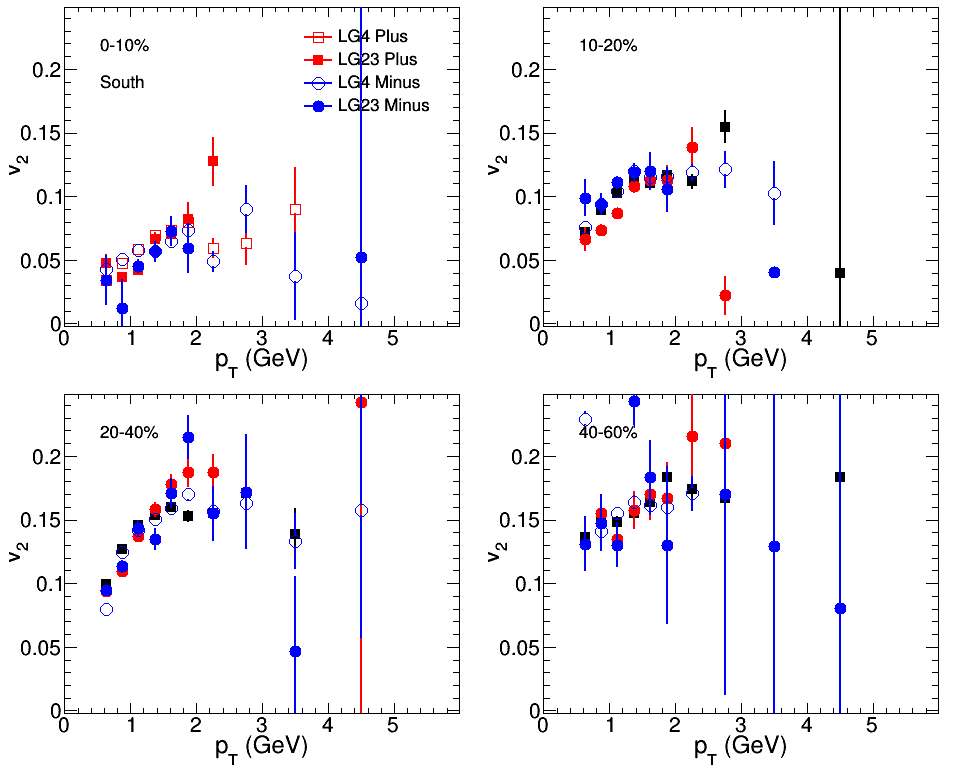
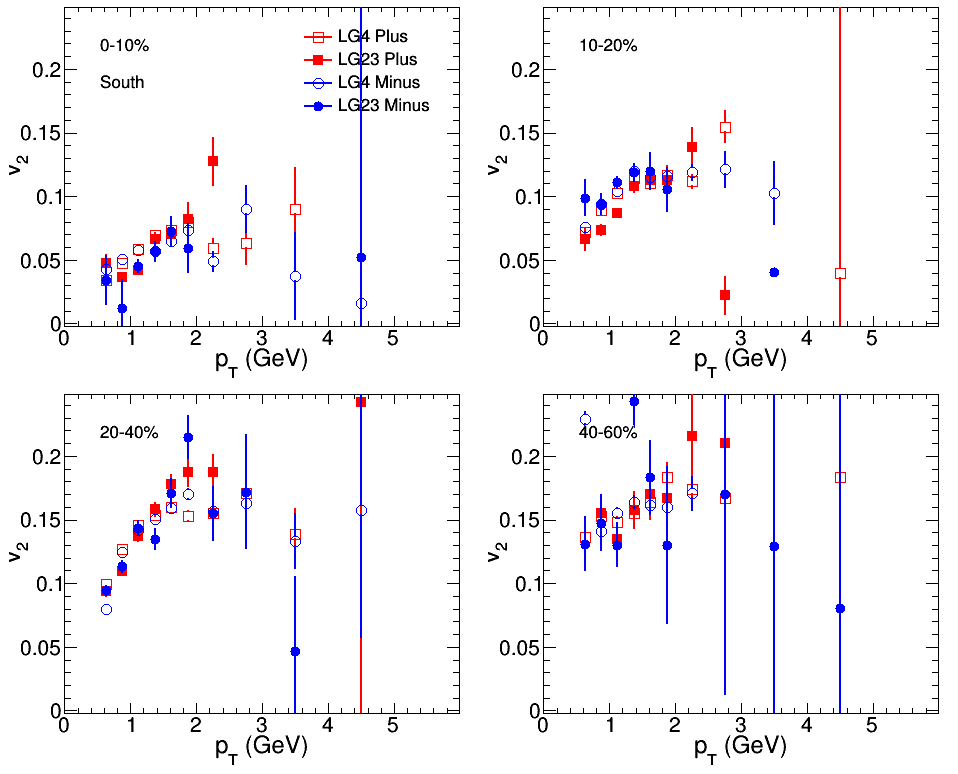
up

diff --git a/branVz/fourPanelFig/fourSetsData/fourPanelFourSetsFig.C b/branVz/fourPanelFig/fourSetsData/fourPanelFourSetsFig.C
@@ -141,7 +141,7 @@ double v2CorrectedLG23MinusError[nCentBin][nPtBin];
   TGraphErrors *graph1Minus = new TGraphErrors(nPtBin, &ptValues[0][0],&v2CorrectedMinus[0][0],0,&v2CorrectedMinusError[0][0]);
   graph1Minus->SetTitle("");
   graph1Minus->SetMarkerStyle(24);
-  graph1Minus->SetMarkerSize(1.4);
+  graph1Minus->SetMarkerSize(1.2);
   graph1Minus->SetMarkerColor(4);
   graph1Minus->SetLineWidth(2);
   graph1Minus->SetLineColor(4);
@@ -149,7 +149,7 @@ double v2CorrectedLG23MinusError[nCentBin][nPtBin];
   TGraphErrors *graph1LG23Minus = new TGraphErrors(nPtBin, &ptValues[0][0],&v2CorrectedLG23Minus[0][0],0,&v2CorrectedLG23MinusError[0][0]);
   graph1LG23Minus->SetTitle("");
   graph1LG23Minus->SetMarkerStyle(20);
-  graph1LG23Minus->SetMarkerSize(1.4);
+  graph1LG23Minus->SetMarkerSize(1.2);
   graph1LG23Minus->SetMarkerColor(4);
   graph1LG23Minus->SetLineWidth(2);
   graph1LG23Minus->SetLineColor(4);
@@ -186,16 +186,16 @@ double v2CorrectedLG23MinusError[nCentBin][nPtBin];
   hist2->Draw();
   TGraphErrors *graph2 = new TGraphErrors(nPtBin, &ptValues[1][0],&v2Corrected[1][0],0,&v2CorrectedError[1][0]);
   graph2->SetTitle("");
-  graph2->SetMarkerStyle(21);
+  graph2->SetMarkerStyle(25);
   graph2->SetMarkerSize(1.2);
-  graph2->SetMarkerColor(1);
+  graph2->SetMarkerColor(2);
   graph2->SetLineWidth(2);
-  graph2->SetLineColor(1);
+  graph2->SetLineColor(2);
   graph2->Draw("psameez");
   TGraphErrors *graph2LG23 = new TGraphErrors(nPtBin, &ptValues[1][0],&v2CorrectedLG23[1][0],0,&v2CorrectedLG23Error[1][0]);
   graph2LG23->SetTitle("");
-  graph2LG23->SetMarkerStyle(20);
-  graph2LG23->SetMarkerSize(1.4);
+  graph2LG23->SetMarkerStyle(21);
+  graph2LG23->SetMarkerSize(1.2);
   graph2LG23->SetMarkerColor(2);
   graph2LG23->SetLineWidth(2);
   graph2LG23->SetLineColor(2);
@@ -203,7 +203,7 @@ double v2CorrectedLG23MinusError[nCentBin][nPtBin];
   TGraphErrors *graph2Minus = new TGraphErrors(nPtBin, &ptValues[1][0],&v2CorrectedMinus[1][0],0,&v2CorrectedMinusError[1][0]);
   graph2Minus->SetTitle("");
   graph2Minus->SetMarkerStyle(24);
-  graph2Minus->SetMarkerSize(1.4);
+  graph2Minus->SetMarkerSize(1.2);
   graph2Minus->SetMarkerColor(4);
   graph2Minus->SetLineWidth(2);
   graph2Minus->SetLineColor(4);
@@ -211,7 +211,7 @@ double v2CorrectedLG23MinusError[nCentBin][nPtBin];
   TGraphErrors *graph2LG23Minus = new TGraphErrors(nPtBin, &ptValues[1][0],&v2CorrectedLG23Minus[1][0],0,&v2CorrectedLG23MinusError[1][0]);
   graph2LG23Minus->SetTitle("");
   graph2LG23Minus->SetMarkerStyle(20);
-  graph2LG23Minus->SetMarkerSize(1.4);
+  graph2LG23Minus->SetMarkerSize(1.2);
   graph2LG23Minus->SetMarkerColor(4);
   graph2LG23Minus->SetLineWidth(2);
   graph2LG23Minus->SetLineColor(4);
@@ -233,16 +233,16 @@ double v2CorrectedLG23MinusError[nCentBin][nPtBin];
   hist3->Draw();
   TGraphErrors *graph3 = new TGraphErrors(nPtBin, &ptValues[2][0],&v2Corrected[2][0],0,&v2CorrectedError[2][0]);
   graph3->SetTitle("");
-  graph3->SetMarkerStyle(21);
+  graph3->SetMarkerStyle(25);
   graph3->SetMarkerSize(1.2);
-  graph3->SetMarkerColor(1);
+  graph3->SetMarkerColor(2);
   graph3->SetLineWidth(2);
-  graph3->SetLineColor(1);
+  graph3->SetLineColor(2);
   graph3->Draw("psameez");
   TGraphErrors *graph3LG23 = new TGraphErrors(nPtBin, &ptValues[2][0],&v2CorrectedLG23[2][0],0,&v2CorrectedLG23Error[2][0]);
   graph3LG23->SetTitle("");
-  graph3LG23->SetMarkerStyle(20);
-  graph3LG23->SetMarkerSize(1.4);
+  graph3LG23->SetMarkerStyle(21);
+  graph3LG23->SetMarkerSize(1.2);
   graph3LG23->SetMarkerColor(2);
   graph3LG23->SetLineWidth(2);
   graph3LG23->SetLineColor(2);
@@ -250,7 +250,7 @@ double v2CorrectedLG23MinusError[nCentBin][nPtBin];
   TGraphErrors *graph3Minus = new TGraphErrors(nPtBin, &ptValues[2][0],&v2CorrectedMinus[2][0],0,&v2CorrectedMinusError[2][0]);
   graph3Minus->SetTitle("");
   graph3Minus->SetMarkerStyle(24);
-  graph3Minus->SetMarkerSize(1.4);
+  graph3Minus->SetMarkerSize(1.2);
   graph3Minus->SetMarkerColor(4);
   graph3Minus->SetLineWidth(2);
   graph3Minus->SetLineColor(4);
@@ -258,7 +258,7 @@ double v2CorrectedLG23MinusError[nCentBin][nPtBin];
   TGraphErrors *graph3LG23Minus = new TGraphErrors(nPtBin, &ptValues[2][0],&v2CorrectedLG23Minus[2][0],0,&v2CorrectedLG23MinusError[2][0]);
   graph3LG23Minus->SetTitle("");
   graph3LG23Minus->SetMarkerStyle(20);
-  graph3LG23Minus->SetMarkerSize(1.4);
+  graph3LG23Minus->SetMarkerSize(1.2);
   graph3LG23Minus->SetMarkerColor(4);
   graph3LG23Minus->SetLineWidth(2);
   graph3LG23Minus->SetLineColor(4);
@@ -280,16 +280,16 @@ double v2CorrectedLG23MinusError[nCentBin][nPtBin];
   hist4->Draw();
   TGraphErrors *graph4 = new TGraphErrors(nPtBin, &ptValues[3][0],&v2Corrected[3][0],0,&v2CorrectedError[3][0]);
   graph4->SetTitle("");
-  graph4->SetMarkerStyle(21);
+  graph4->SetMarkerStyle(25);
   graph4->SetMarkerSize(1.2);
-  graph4->SetMarkerColor(1);
+  graph4->SetMarkerColor(2);
   graph4->SetLineWidth(2);
-  graph4->SetLineColor(1);
+  graph4->SetLineColor(2);
   graph4->Draw("psameez");
   TGraphErrors *graph4LG23 = new TGraphErrors(nPtBin, &ptValues[3][0],&v2CorrectedLG23[3][0],0,&v2CorrectedLG23Error[3][0]);
   graph4LG23->SetTitle("");
-  graph4LG23->SetMarkerStyle(20);
-  graph4LG23->SetMarkerSize(1.4);
+  graph4LG23->SetMarkerStyle(21);
+  graph4LG23->SetMarkerSize(1.2);
   graph4LG23->SetMarkerColor(2);
   graph4LG23->SetLineWidth(2);
   graph4LG23->SetLineColor(2);
@@ -297,7 +297,7 @@ double v2CorrectedLG23MinusError[nCentBin][nPtBin];
   TGraphErrors *graph4Minus = new TGraphErrors(nPtBin, &ptValues[3][0],&v2CorrectedMinus[3][0],0,&v2CorrectedMinusError[3][0]);
   graph4Minus->SetTitle("");
   graph4Minus->SetMarkerStyle(24);
-  graph4Minus->SetMarkerSize(1.4);
+  graph4Minus->SetMarkerSize(1.2);
   graph4Minus->SetMarkerColor(4);
   graph4Minus->SetLineWidth(2);
   graph4Minus->SetLineColor(4);
@@ -305,7 +305,7 @@ double v2CorrectedLG23MinusError[nCentBin][nPtBin];
   TGraphErrors *graph4LG23Minus = new TGraphErrors(nPtBin, &ptValues[3][0],&v2CorrectedLG23Minus[3][0],0,&v2CorrectedLG23MinusError[3][0]);
   graph4LG23Minus->SetTitle("");
   graph4LG23Minus->SetMarkerStyle(20);
-  graph4LG23Minus->SetMarkerSize(1.4);
+  graph4LG23Minus->SetMarkerSize(1.2);
   graph4LG23Minus->SetMarkerColor(4);
   graph4LG23Minus->SetLineWidth(2);
   graph4LG23Minus->SetLineColor(4);
